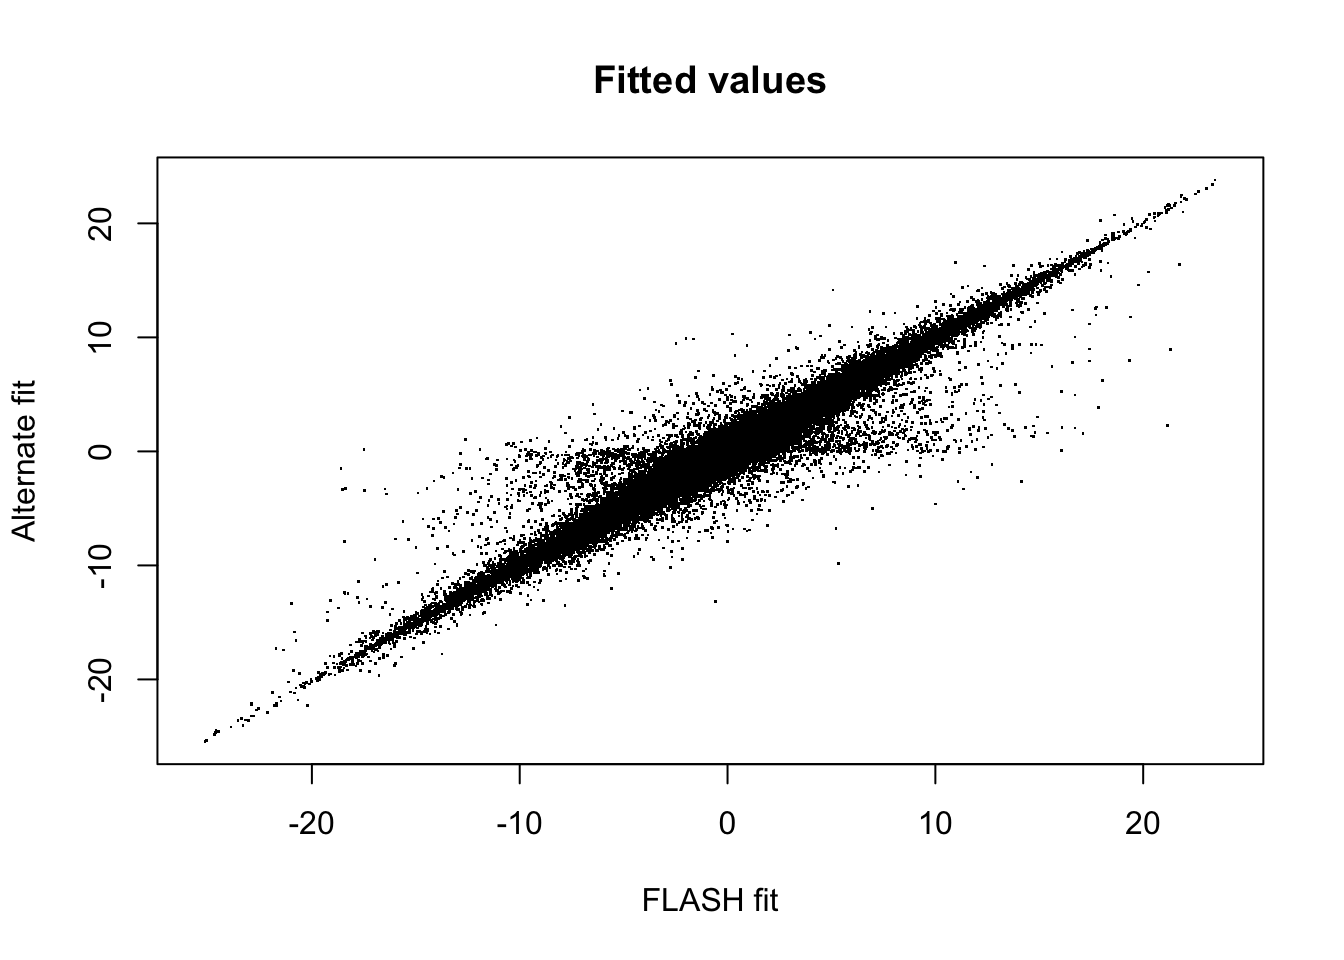
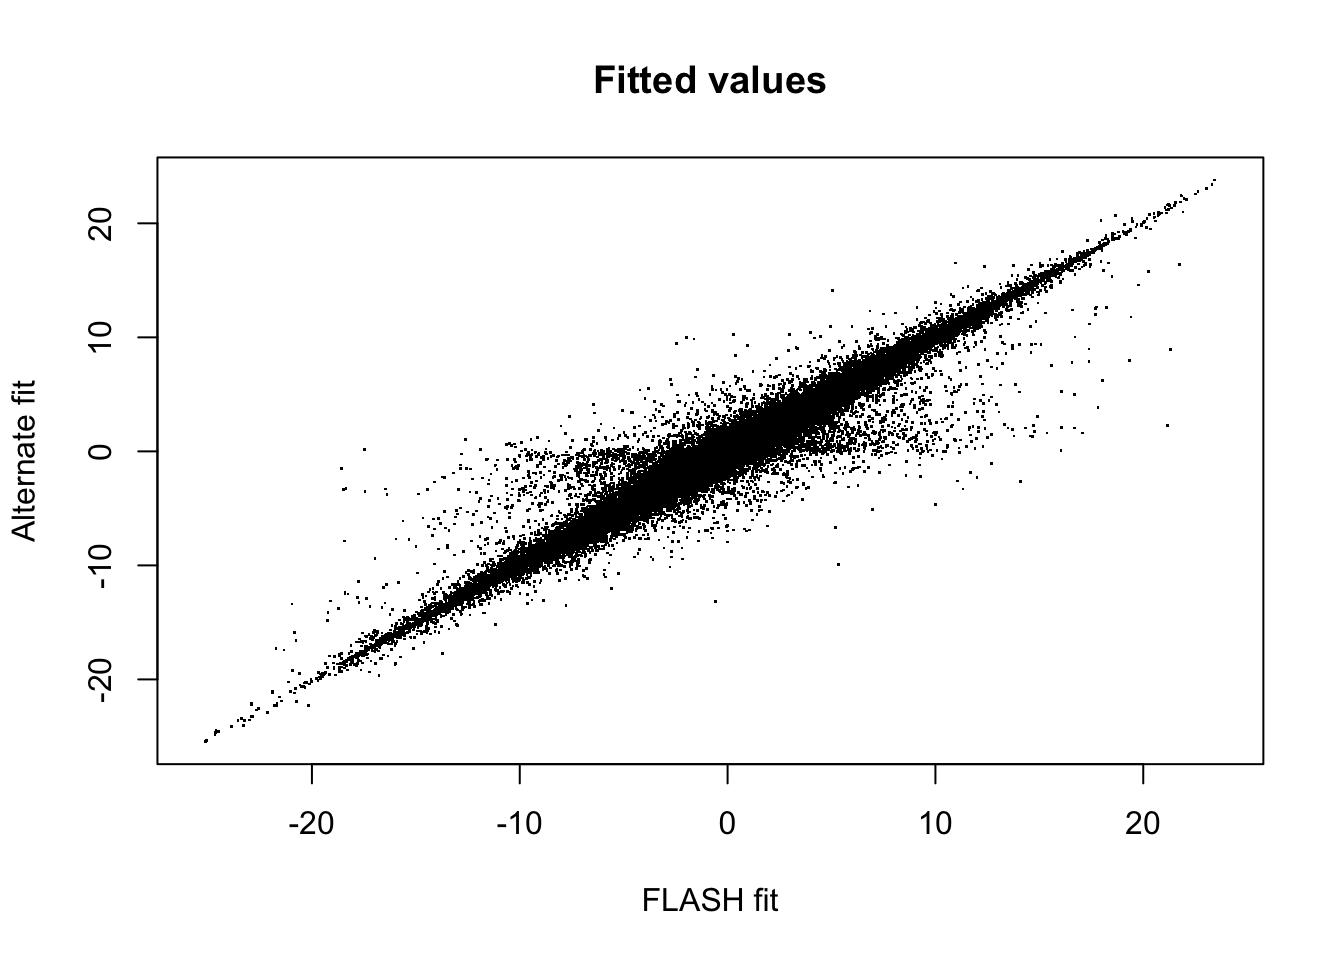
Build site.

diff --git a/docs/alt_alg.html b/docs/alt_alg.html
@@ -292,9 +292,6 @@ div.tocify {
 <li>
   <a href="about.html">About</a>
 </li>
-<li>
-  <a href="license.html">License</a>
-</li>
       </ul>
       <ul class="nav navbar-nav navbar-right">
         <li>
@@ -334,7 +331,7 @@ div.section {
 </div>
 
 
-<p><strong>Last updated:</strong> 2018-07-19</p>
+<p><strong>Last updated:</strong> 2018-07-20</p>
 <strong>workflowr checks:</strong> <small>(Click a bullet for more information)</small>
 <ul>
 <li>
@@ -358,7 +355,7 @@ div.section {
 </details>
 </li>
 <li>
-<p><details> <summary> <strong style="color:blue;">✔</strong> <strong>Repository version:</strong> <a href="https://github.com/willwerscheid/FLASHvestigations/tree/bc2681ed33381070f6380baa1e90bba4efde8d6f" target="_blank">bc2681e</a> </summary></p>
+<p><details> <summary> <strong style="color:blue;">✔</strong> <strong>Repository version:</strong> <a href="https://github.com/willwerscheid/FLASHvestigations/tree/c23f41c789d7a6e4906bd341fdf68860e4f461cc" target="_blank">c23f41c</a> </summary></p>
 Great! You are using Git for version control. Tracking code development and connecting the code version to the results is critical for reproducibility. The version displayed above was the version of the Git repository at the time these results were generated. <br><br> Note that you need to be careful to ensure that all relevant files for the analysis have been committed to Git prior to generating the results (you can use <code>wflow_publish</code> or <code>wflow_git_commit</code>). workflowr only checks the R Markdown file, but you know if there are other scripts or data files that it depends on. Below is the status of the Git repository when the results were generated:
 <pre><code>
 Ignored files:
@@ -367,9 +364,6 @@ Ignored files:
     Ignored:    .Rproj.user/
     Ignored:    docs/.DS_Store
     Ignored:    docs/figure/.DS_Store
-
-Unstaged changes:
-    Modified:   analysis/flash_em.Rmd
 
 </code></pre>
 Note that any generated files, e.g. HTML, png, CSS, etc., are not included in this status report because it is ok for generated content to have uncommitted changes. </details>
@@ -398,6 +392,40 @@ Message
 </tr>
 </thead>
 <tbody>
+<tr>
+<td style="text-align:left;">
+Rmd
+</td>
+<td style="text-align:left;">
+<a href="https://github.com/willwerscheid/FLASHvestigations/blob/c23f41c789d7a6e4906bd341fdf68860e4f461cc/analysis/alt_alg.Rmd" target="_blank">c23f41c</a>
+</td>
+<td style="text-align:left;">
+Jason Willwerscheid
+</td>
+<td style="text-align:left;">
+2018-07-20
+</td>
+<td style="text-align:left;">
+wflow_publish(“analysis/alt_alg.Rmd”)
+</td>
+</tr>
+<tr>
+<td style="text-align:left;">
+html
+</td>
+<td style="text-align:left;">
+<a href="https://cdn.rawgit.com/willwerscheid/FLASHvestigations/2cbe7dd2bd145f6ecf2508dbf659131b807265b9/docs/alt_alg.html" target="_blank">2cbe7dd</a>
+</td>
+<td style="text-align:left;">
+Jason Willwerscheid
+</td>
+<td style="text-align:left;">
+2018-07-19
+</td>
+<td style="text-align:left;">
+Build site.
+</td>
+</tr>
 <tr>
 <td style="text-align:left;">
 Rmd
@@ -697,9 +725,13 @@ optimize_alt_fl &lt;- function(altfl, tol = .01, verbose = FALSE) {
 <h2>Fit</h2>
 <p>Using the same dataset as in previous investigations, I fit a FLASH object with four factors (recall that it’s the fourth factor that has been causing problems during loadings updates):</p>
 <pre class="r"><code>load(&quot;./data/before_bad.Rdata&quot;)
+
 # devtools::install_github(&quot;stephenslab/flashr&quot;)
 devtools::load_all(&quot;/Users/willwerscheid/GitHub/flashr&quot;)</code></pre>
 <pre><code>Loading flashr</code></pre>
+<pre class="r"><code># devtools::install_github(&quot;stephenslab/flashr&quot;)
+devtools::load_all(&quot;/Users/willwerscheid/GitHub/ebnm&quot;)</code></pre>
+<pre><code>Loading ebnm</code></pre>
 <pre class="r"><code>fl &lt;- flash_add_greedy(data, Kmax=4, verbose=FALSE)</code></pre>
 <pre><code>fitting factor/loading 1</code></pre>
 <pre><code>fitting factor/loading 2</code></pre>
@@ -707,50 +739,51 @@ devtools::load_all(&quot;/Users/willwerscheid/GitHub/flashr&quot;)</code></pre>
 <pre><code>fitting factor/loading 4</code></pre>
 <p>The objective as computed by FLASH is:</p>
 <pre class="r"><code>flash_get_objective(data, fl)</code></pre>
-<pre><code>[1] -1297148</code></pre>
+<pre><code>[1] -1297135</code></pre>
 <p>I now convert the fourth factor to an “altfl” object. The objective as computed by the alternate method is:</p>
 <pre class="r"><code>altfl &lt;- fl_to_altfl(data, fl, 4)
 compute_obj(altfl)</code></pre>
-<pre><code>[1] -1288461</code></pre>
+<pre><code>[1] -1287925</code></pre>
 <p>Next, I optimize the altfl object:</p>
 <pre class="r"><code>altfl &lt;- optimize_alt_fl(altfl, verbose=TRUE)</code></pre>
-<pre><code>Objective: -1267406.2685275</code></pre>
-<pre><code>Objective: -1260756.13822147</code></pre>
-<pre><code>Objective: -1257939.29612236</code></pre>
-<pre><code>Objective: -1257300.63730127</code></pre>
-<pre><code>Objective: -1257110.55550233</code></pre>
-<pre><code>Objective: -1257016.7314057</code></pre>
-<pre><code>Objective: -1256963.52277046</code></pre>
-<pre><code>Objective: -1256932.3695305</code></pre>
-<pre><code>Objective: -1256914.13309796</code></pre>
-<pre><code>Objective: -1256902.74309918</code></pre>
-<pre><code>Objective: -1256895.1068788</code></pre>
-<pre><code>Objective: -1256889.8003563</code></pre>
-<pre><code>Objective: -1256886.07583612</code></pre>
-<pre><code>Objective: -1256883.4080515</code></pre>
-<pre><code>Objective: -1256881.44636624</code></pre>
-<pre><code>Objective: -1256879.9749153</code></pre>
-<pre><code>Objective: -1256878.85630259</code></pre>
-<pre><code>Objective: -1256877.99813191</code></pre>
-<pre><code>Objective: -1256877.33547644</code></pre>
-<pre><code>Objective: -1256876.82128467</code></pre>
-<pre><code>Objective: -1256876.42074587</code></pre>
-<pre><code>Objective: -1256876.10774166</code></pre>
-<pre><code>Objective: -1256875.8624804</code></pre>
-<pre><code>Objective: -1256875.66985319</code></pre>
-<pre><code>Objective: -1256875.5182584</code></pre>
-<pre><code>Objective: -1256875.39874455</code></pre>
-<pre><code>Objective: -1256875.3043765</code></pre>
-<pre><code>Objective: -1256875.22976218</code></pre>
-<pre><code>Objective: -1256875.17069613</code></pre>
-<pre><code>Objective: -1256875.12388932</code></pre>
-<pre><code>Objective: -1256875.08676316</code></pre>
-<pre><code>Objective: -1256875.05729166</code></pre>
-<pre><code>Objective: -1256875.03387997</code></pre>
-<pre><code>Objective: -1256875.0152705</code></pre>
-<pre><code>Objective: -1256875.00047012</code></pre>
-<pre><code>Objective: -1256874.98869349</code></pre>
-<pre><code>Objective: -1256874.9793189</code></pre>
+<pre><code>Objective: -1266527.52893897</code></pre>
+<pre><code>Objective: -1259591.41880171</code></pre>
+<pre><code>Objective: -1256717.73280192</code></pre>
+<pre><code>Objective: -1256092.73281445</code></pre>
+<pre><code>Objective: -1255909.73574933</code></pre>
+<pre><code>Objective: -1255818.46915015</code></pre>
+<pre><code>Objective: -1255766.3647692</code></pre>
+<pre><code>Objective: -1255735.3950312</code></pre>
+<pre><code>Objective: -1255716.97331457</code></pre>
+<pre><code>Objective: -1255705.43249546</code></pre>
+<pre><code>Objective: -1255697.71996832</code></pre>
+<pre><code>Objective: -1255692.31493727</code></pre>
+<pre><code>Objective: -1255688.43367143</code></pre>
+<pre><code>Objective: -1255685.61158832</code></pre>
+<pre><code>Objective: -1255683.53045841</code></pre>
+<pre><code>Objective: -1255681.97109968</code></pre>
+<pre><code>Objective: -1255680.78688195</code></pre>
+<pre><code>Objective: -1255679.87854253</code></pre>
+<pre><code>Objective: -1255679.17674322</code></pre>
+<pre><code>Objective: -1255678.63159121</code></pre>
+<pre><code>Objective: -1255678.20636055</code></pre>
+<pre><code>Objective: -1255677.87357066</code></pre>
+<pre><code>Objective: -1255677.61241567</code></pre>
+<pre><code>Objective: -1255677.40700628</code></pre>
+<pre><code>Objective: -1255677.24512755</code></pre>
+<pre><code>Objective: -1255677.11733974</code></pre>
+<pre><code>Objective: -1255677.01631629</code></pre>
+<pre><code>Objective: -1255676.93635016</code></pre>
+<pre><code>Objective: -1255676.87298197</code></pre>
+<pre><code>Objective: -1255676.82271789</code></pre>
+<pre><code>Objective: -1255676.78281419</code></pre>
+<pre><code>Objective: -1255676.75111177</code></pre>
+<pre><code>Objective: -1255676.72590854</code></pre>
+<pre><code>Objective: -1255676.7058606</code></pre>
+<pre><code>Objective: -1255676.68990533</code></pre>
+<pre><code>Objective: -1255676.67720158</code></pre>
+<pre><code>Objective: -1255676.66708273</code></pre>
+<pre><code>Objective: -1255676.65902003</code></pre>
 <p>Finally, I put the altfl object back into the fourth factor of the flash object.</p>
 <pre class="r"><code>fl2 &lt;- altfl_to_fl(altfl, fl, 4)</code></pre>
 </div>
@@ -760,33 +793,33 @@ compute_obj(altfl)</code></pre>
 <pre class="r"><code>list(loadings = fl$gl[[4]], alt_loadings = fl2$gl[[4]])</code></pre>
 <pre><code>$loadings
 $loadings$pi0
-[1] 0.7252435
+[1] 0.72317
 
 $loadings$a
-[1] 0.05228744
+[1] 0.04110932
 
 
 $alt_loadings
 $alt_loadings$pi0
-[1] 0.6079064
+[1] 0.6009072
 
 $alt_loadings$a
-[1] 0.1251973</code></pre>
+[1] 0.09951342</code></pre>
 <pre class="r"><code>list(factors = fl$gf[[4]], alt_factors = fl2$gf[[4]])</code></pre>
 <pre><code>$factors
 $factors$pi0
-[1] 0.3667051
+[1] 0.3616584
 
 $factors$a
-[1] 23.14738
+[1] 29.84806
 
 
 $alt_factors
 $alt_factors$pi0
-[1] 0.1302886
+[1] 0.1264111
 
 $alt_factors$a
-[1] 36.28001</code></pre>
+[1] 46.48745</code></pre>
 <p>A scatterplot comparing the fitted fourth factor/loading appears as follows:</p>
 <pre class="r"><code>fitted &lt;- flash_get_fitted_values(fl)
 fitted2 &lt;- flash_get_fitted_values(fl2)
@@ -799,6 +832,36 @@ plot(fitted, fitted2, pch=&#39;.&#39;,
      xlim=c(minval, maxval), ylim=c(minval, maxval),
      main=&quot;Fitted values&quot;)</code></pre>
 <p><img src="figure/alt_alg.Rmd/comp_fitted-1.png" width="672" style="display: block; margin: auto;" /></p>
+<details> <summary><em>Expand here to see past versions of comp_fitted-1.png:</em></summary>
+<table style="border-collapse:separate; border-spacing:5px;">
+<thead>
+<tr>
+<th style="text-align:left;">
+Version
+</th>
+<th style="text-align:left;">
+Author
+</th>
+<th style="text-align:left;">
+Date
+</th>
+</tr>
+</thead>
+<tbody>
+<tr>
+<td style="text-align:left;">
+<a href="https://github.com/willwerscheid/FLASHvestigations/blob/2cbe7dd2bd145f6ecf2508dbf659131b807265b9/docs/figure/alt_alg.Rmd/comp_fitted-1.png" target="_blank">2cbe7dd</a>
+</td>
+<td style="text-align:left;">
+Jason Willwerscheid
+</td>
+<td style="text-align:left;">
+2018-07-19
+</td>
+</tr>
+</tbody>
+</table>
+<p></details></p>
 <p>To see what’s going on, I fit the estimated loadings against the estimated prior on the loadings. For the FLASH fit:</p>
 <pre class="r"><code>plot(density(fl$EL[, 4]), xlim=c(-15, 15), ylim=c(0, 0.1),
      main=&quot;FLASH loadings&quot;)
@@ -807,6 +870,36 @@ y &lt;- (1 - fl$gl[[4]]$pi0) * dnorm(grid, 0, 1/sqrt(fl$gl[[4]]$a))
 lines(grid, y, lty=2)
 legend(&quot;topright&quot;, legend = c(&quot;fitted&quot;, &quot;prior&quot;), lty = c(1, 2))</code></pre>
 <p><img src="figure/alt_alg.Rmd/density1-1.png" width="672" style="display: block; margin: auto;" /></p>
+<details> <summary><em>Expand here to see past versions of density1-1.png:</em></summary>
+<table style="border-collapse:separate; border-spacing:5px;">
+<thead>
+<tr>
+<th style="text-align:left;">
+Version
+</th>
+<th style="text-align:left;">
+Author
+</th>
+<th style="text-align:left;">
+Date
+</th>
+</tr>
+</thead>
+<tbody>
+<tr>
+<td style="text-align:left;">
+<a href="https://github.com/willwerscheid/FLASHvestigations/blob/2cbe7dd2bd145f6ecf2508dbf659131b807265b9/docs/figure/alt_alg.Rmd/density1-1.png" target="_blank">2cbe7dd</a>
+</td>
+<td style="text-align:left;">
+Jason Willwerscheid
+</td>
+<td style="text-align:left;">
+2018-07-19
+</td>
+</tr>
+</tbody>
+</table>
+<p></details></p>
 <p>For the alternate approach:</p>
 <pre class="r"><code>plot(density(fl2$EL[, 4]), xlim=c(-15, 15), ylim=c(0, 0.1),
      main=&quot;Alternate approach&quot;)
@@ -815,7 +908,37 @@ y &lt;- (1 - fl2$gl[[4]]$pi0) * dnorm(grid, 0, 1/sqrt(fl2$gl[[4]]$a))
 lines(grid, y, lty=2)
 legend(&quot;topright&quot;, legend = c(&quot;fitted&quot;, &quot;prior&quot;), lty = c(1, 2))</code></pre>
 <p><img src="figure/alt_alg.Rmd/density2-1.png" width="672" style="display: block; margin: auto;" /></p>
-<p>It seems almost as if FLASH were fitting the model <span class="math display">\[ l_i \sim^{iid} g_l + e, \]</span> where <span class="math inline">\(e\)</span> is some error term, rather than the model <span class="math display">\[ l_i \sim^{iid} g_l. \]</span> This might explain why the prior gets pulled up more by the fitted values in the latter approach.</p>
+<details> <summary><em>Expand here to see past versions of density2-1.png:</em></summary>
+<table style="border-collapse:separate; border-spacing:5px;">
+<thead>
+<tr>
+<th style="text-align:left;">
+Version
+</th>
+<th style="text-align:left;">
+Author
+</th>
+<th style="text-align:left;">
+Date
+</th>
+</tr>
+</thead>
+<tbody>
+<tr>
+<td style="text-align:left;">
+<a href="https://github.com/willwerscheid/FLASHvestigations/blob/2cbe7dd2bd145f6ecf2508dbf659131b807265b9/docs/figure/alt_alg.Rmd/density2-1.png" target="_blank">2cbe7dd</a>
+</td>
+<td style="text-align:left;">
+Jason Willwerscheid
+</td>
+<td style="text-align:left;">
+2018-07-19
+</td>
+</tr>
+</tbody>
+</table>
+<p></details></p>
+<p>This doesn’t seem right!</p>
 </div>
 <div id="session-information" class="section level2">
 <h2>Session information</h2>
@@ -835,7 +958,7 @@ attached base packages:
 [1] stats     graphics  grDevices utils     datasets  methods   base     
 
 other attached packages:
-[1] flashr_0.5-12
+[1] ebnm_0.1-13   flashr_0.5-12
 
 loaded via a namespace (and not attached):
  [1] Rcpp_0.12.17        pillar_1.2.1        plyr_1.8.4         
@@ -845,17 +968,17 @@ loaded via a namespace (and not attached):
 [13] tibble_1.4.2        evaluate_0.10.1     memoise_1.1.0      
 [16] gtable_0.2.0        lattice_0.20-35     rlang_0.2.0        
 [19] Matrix_1.2-12       foreach_1.4.4       commonmark_1.4     
-[22] yaml_2.1.17         parallel_3.4.3      ebnm_0.1-12        
-[25] withr_2.1.1.9000    stringr_1.3.0       roxygen2_6.0.1.9000
-[28] xml2_1.2.0          knitr_1.20          devtools_1.13.4    
-[31] rprojroot_1.3-2     grid_3.4.3          R6_2.2.2           
-[34] rmarkdown_1.8       ggplot2_2.2.1       ashr_2.2-10        
-[37] magrittr_1.5        whisker_0.3-2       backports_1.1.2    
-[40] scales_0.5.0        codetools_0.2-15    htmltools_0.3.6    
-[43] MASS_7.3-48         assertthat_0.2.0    softImpute_1.4     
-[46] colorspace_1.3-2    stringi_1.1.6       lazyeval_0.2.1     
-[49] munsell_0.4.3       doParallel_1.0.11   pscl_1.5.2         
-[52] truncnorm_1.0-8     SQUAREM_2017.10-1   R.oo_1.21.0        </code></pre>
+[22] yaml_2.1.17         parallel_3.4.3      withr_2.1.1.9000   
+[25] stringr_1.3.0       roxygen2_6.0.1.9000 xml2_1.2.0         
+[28] knitr_1.20          devtools_1.13.4     rprojroot_1.3-2    
+[31] grid_3.4.3          R6_2.2.2            rmarkdown_1.8      
+[34] ggplot2_2.2.1       ashr_2.2-10         magrittr_1.5       
+[37] whisker_0.3-2       backports_1.1.2     scales_0.5.0       
+[40] codetools_0.2-15    htmltools_0.3.6     MASS_7.3-48        
+[43] assertthat_0.2.0    softImpute_1.4      colorspace_1.3-2   
+[46] stringi_1.1.6       lazyeval_0.2.1      munsell_0.4.3      
+[49] doParallel_1.0.11   pscl_1.5.2          truncnorm_1.0-8    
+[52] SQUAREM_2017.10-1   R.oo_1.21.0        </code></pre>
 </div>
 
 <!-- Adjust MathJax settings so that all math formulae are shown using
